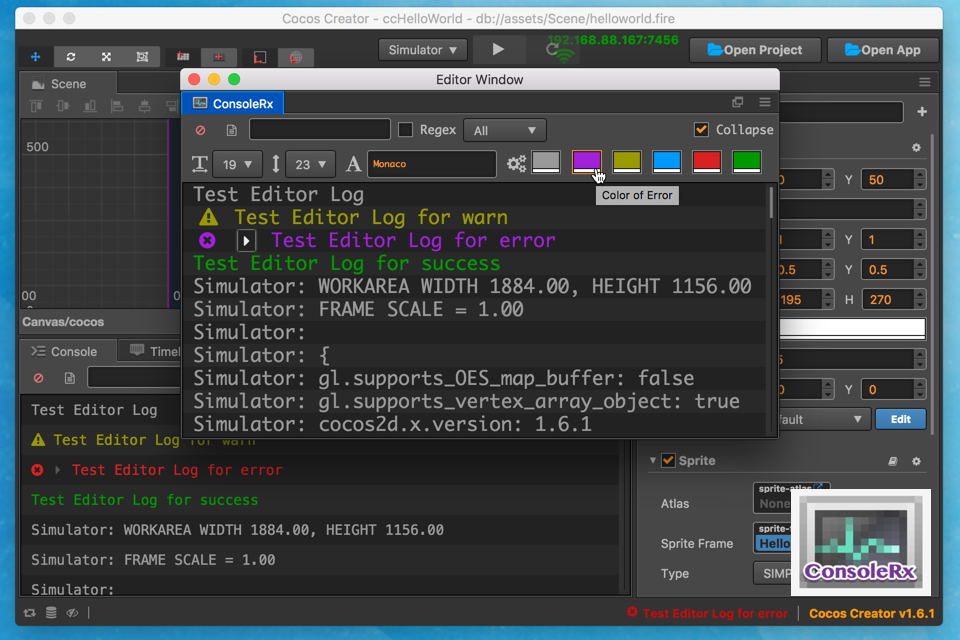
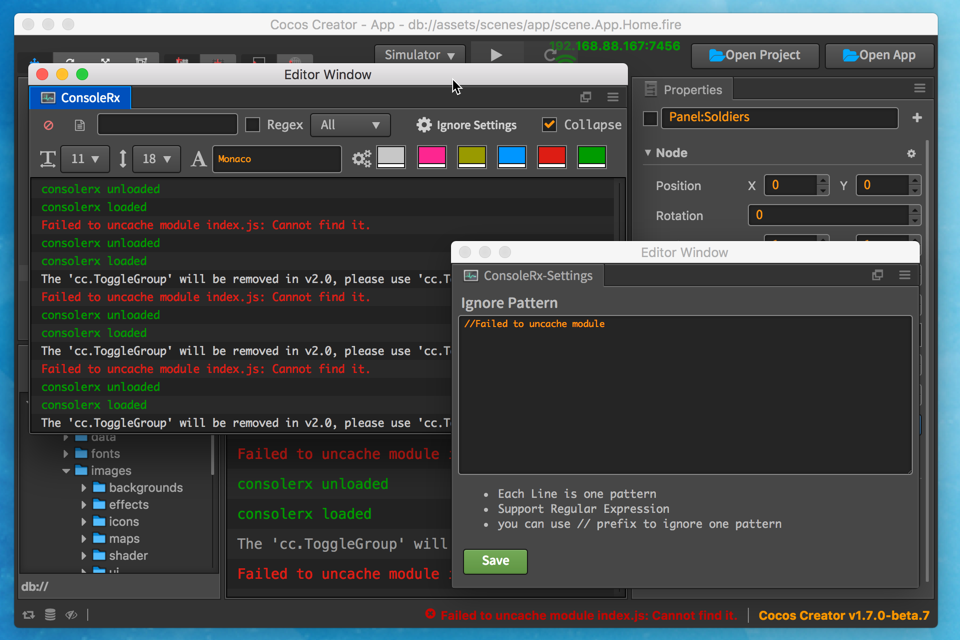
upgrade ConsoleRx 1.2.0
- create new panel for ignore patterns
- use Editor.Ipc.sendToPanel to sync profile settings

diff --git a/EditorExtensions/ConsoleRx/package/panel-settings/index.js b/EditorExtensions/ConsoleRx/package/panel-settings/index.js
@@ -1,0 +1,124 @@
+'use strict';
+const urlOfIcon = Editor.url( 'packages://consolerx/icon.png' );
+
+
+const stylesheet = `
+@import url('app://bower_components/fontawesome/css/font-awesome.min.css');
+#settings { display: flex; flex-direction: column; font-family: Monaco, monospace; padding:5px; }
+header { display: flex; padding: 4px; position: relative; }
+h3 { margin: 3px; }
+ui-checkbox { padding: 3px 4px; }
+
+li { font-size: 11px; }
+
+label { line-height:23px; font-size:9px; font-family:Monaco; }
+#crx_FontFamilies input { font-size:9px!important; font-family:Monaco; }
+#consolerx .split { height:20px; margin:2px 0 0 5px; border-right:#999 1px dotted; width:5px; }
+#consolerx input { color: #fd942b; background: #09f; font-size:9px; font-family:Monaco; margin: 0; padding: .2em .6em; display: inline-block; outline: 0; border-radius: 3px; border: 1px solid #888; box-shadow: inset 0 0 3px 1px rgba(0, 0, 0, .3); background: #252525 }
+#consolerx input:focus { border: 1px solid #fd942b!important; }
+#consolerx input:hover { border: 1px solid #bababa; }
+#consolerx input:-webkit-input-placeholder { font-style: italic; color: #595959 }
+#consolerx .fa { font-size:18px; line-height:28px; margin:0px 5px 0px 6px; }
+#consolerx select { padding:2px 18px 2px 5px!important; border:red 2px solid; }
+
+/* Change for UI Kit */
+ui-color { width:30px; }
+
+#settings textarea { color: #fd942b; background: #09f; font-size:9px; font-family:Monaco; margin: 0; padding: .2em .6em; display: inline-block; outline: 0; border-radius: 3px; border: 1px solid #888; box-shadow: inset 0 0 3px 1px rgba(0, 0, 0, .3); background: #252525 }
+#settings textarea:focus { border: 1px solid #fd942b!important; }
+#settings textarea:hover { border: 1px solid #bababa; }
+#settings textarea:-webkit-input-placeholder { font-style: italic; color: #595959 }
+`;
+
+const uiTemplate =`
+<div id="settings">
+
+	<div class="group">
+		<h3>Ignore Pattern</h3>
+		<textarea id="textarea" style="width:100%;height:160px"></textarea>
+	</div>
+	<div>
+		<ul>
+			<li>Each Line is one pattern</li>
+			<li>Support Regular Expression</li>
+			<li>you can use // prefix to ignore one pattern</li>
+		</ul>
+	</div>
+	<div style="padding:5px;">
+		<ui-button class="green" v-on:click="onIgnorePatternsChanged">Save</ui-button>
+	</div>
+	
+</div>
+`;
+
+let _data =
+{
+};
+
+
+let _buildMethods = ( runtime ) =>
+{
+	let funcs =
+	{
+		onIgnorePatternsChanged( event )
+		{
+			//let patterns = event.target.value
+			let patterns = runtime.$textarea.value;
+			Editor.Ipc.sendToPanel( 'consolerx', 'update-ignore-patterns', patterns );
+		},
+	};
+	return funcs;
+}
+
+
+
+
+const _DefineOfPanel =
+{
+	style: stylesheet,
+	template: uiTemplate,
+
+	$:{
+		settings: '#settings',
+		textarea: '#textarea',
+	},
+
+	listeners:
+	{
+		//'panel-resize'(){ manager.update(); },
+		//'panel-show'()	{ manager.update(); }
+	},
+	messages:
+	{
+	},
+	run( args )
+	{
+	},
+	ready()
+	{
+		let root = this;
+		let _Vue =
+		{
+			el:         this.$settings,
+			components:
+			{
+			},
+			data: _data,
+			methods: _buildMethods( root ),
+		};
+		Editor.Ipc.sendToPanel( 'consolerx', 'query-ip', null, function( ignorePatterns )
+		{
+			root.$textarea.value = ignorePatterns;
+
+			root._vm = new Vue( _Vue );
+		});
+	},
+	close()
+	{
+	}
+
+};
+
+
+
+Editor.Panel.extend( _DefineOfPanel );

diff --git a/EditorExtensions/ConsoleRx/package/panel/index.js b/EditorExtensions/ConsoleRx/package/panel/index.js
@@ -1,13 +1,13 @@
 'use strict';
 const crx = require( Editor.url( 'packages://consolerx/crx' ) );
-const manager = require( Editor.url( 'packages://consolerx/panel/manager' ) );
+const manager = require( Editor.url( 'packages://consolerx/core/manager' ) );
 const components =
 {
 	List:			require( Editor.url( 'packages://consolerx/panel/components/list' ) ),
 	Item:			require( Editor.url( 'packages://consolerx/panel/components/item' ) ),
 };
 
-require( Editor.url( 'packages://consolerx/libs/string-format' ) ).extend( String.prototype );
+//require( Editor.url( 'packages://consolerx/libs/string-format' ) ).extend( String.prototype );
 
 const __defaultColors = `
 section .item[type=log]	{ color: #999; }
@@ -76,6 +76,8 @@ const uiTemplate =`
 			<option value="warn">Warn</option>
 			<option value="error">Error</option>
 		</ui-select>
+		
+		<ui-button id="openSettings" class="small transparent" v-on:click="onPopSettings" style="margin-left:10px"><i class="fa fa-cog"></i>Ignore Settings</ui-button>
 		
 		<ui-checkbox class="collapse" v-on:confirm="onCollapse" checked>Collapse</ui-checkbox>
 	</header>
@@ -175,6 +177,10 @@ let _buildMethods = ( runtime ) =>
 			let rect = runtime.$openLogBtn.getBoundingClientRect();
 			Editor.Ipc.sendToPackage( crx.PackageName, 'popup-open-log-menu', rect.left, rect.bottom + 5 );
 		},
+		onPopSettings()
+		{
+			Editor.Panel.open( 'consolerx-settings', crx.Runtime.IgnorePatterns );
+		},
 		onFilterType( event )		{ manager.setFilterType( event.target.value ); },
 		onCollapse( event )			{ manager.setCollapse( event.target.checked ); },
 		onFilterRegex( event )		{ manager.setFilterRegex( event.target.value ); },
@@ -200,13 +206,12 @@ let _buildMethods = ( runtime ) =>
 			let fonts = event.target.value
 
 			crx.Runtime.UpdateProfileBy( 'fontfamilies', fonts );
-			//manager.update();
 		},
 		onColorChanged: function ( event )
 		{
 			let picker	= event.target;
 			let hex		= crx.RgbaArrayToHexBy( picker.value );
-			console.info( 'OnUpdateColor: Id[{0}] Rgba[{1}]'.format( picker.id, hex ) );
+			console.info( `OnUpdateColor: Id[${ picker.id }] Rgba[${ hex }]` );
 
 			this.colors[picker.id] = hex;
 			crx.Runtime.UpdateProfileBy( 'colors', this.colors );
@@ -275,7 +280,23 @@ const _DefineOfPanel =
 			}
 
 			event.reply( null, undefined );
-		}
+		},
+		'update-ignore-patterns'( event, patterns )
+		{
+			//Editor.log( `[Panel] Received Update Ignore: ${ patterns }` );
+
+			crx.Runtime.UpdateProfileBy( 'IgnorePatterns', patterns );
+			manager.setIgnorePatternsBy( patterns );
+			//Editor.log( `update IgnorePatterns: ${ patterns }` );
+		},
+
+		'query-ip'( event )
+		{
+			if( event.reply )
+			{
+				event.reply( crx.Runtime.IgnorePatterns );
+			}
+		},
 	},
 	ready()
 	{
@@ -295,7 +316,7 @@ const _DefineOfPanel =
 
 		this._vm = new Vue( buildVue );
 
-
+		manager.setIgnorePatternsBy( crx.Runtime.IgnorePatterns );
 		manager.SetRenderItemsBy( this._vm.messages );
 
 		Editor.Ipc.sendToMain( crx.keys.editor.ConsoleQuery, ( err, results ) =>{ manager.addItems( results ); } );

diff --git a/EditorExtensions/ConsoleRx/package/core/manager.js b/EditorExtensions/ConsoleRx/package/core/manager.js
@@ -15,6 +15,8 @@ exports.SetRenderItemsBy = function ( array )
 	__RenderItems = exports.RenderItems = array;
 };
 
+let ignorePatterns = [];
+
 var collapse = true;
 var filterType = '';
 var filterText = '';
@@ -88,7 +90,7 @@ exports.update = function ()
 			catch ( error ) { filter = /.*/; }
 		}
 
-		var filtedMessages = __messages.filter( ( item ) =>
+		var messages = __messages.filter( ( item ) =>
 		{
 			// 过滤一遍 title 不存在的项目
 			if ( !item.title ) return false;
@@ -104,10 +106,20 @@ exports.update = function ()
 			}
 		} );
 
+		//IgnorePatterns
+		for( let idx = 0; idx < ignorePatterns.length; idx++ )
+		{
+			let ignoreRegExp = ignorePatterns[idx];
 
+			messages = messages.filter( (item) =>
+			{
+				return !ignoreRegExp.test( item.title );
+			});
+
+		}
 
 		// 最后将过滤出来的 log 信息放入需要显示的 RenderItems 队列
-		filtedMessages.forEach( ( item ) =>
+		messages.forEach( ( item ) =>
 		{
 			var reference = __RenderItems[__RenderItems.length - 1];
 			// 根据 collapse 过滤一遍
@@ -154,5 +166,30 @@ exports.setFilterText = function ( str )
 exports.setFilterRegex = function ( bool )
 {
 	filterRegex = !!bool;
+	exports.update();
+};
+
+exports.setIgnorePatternsBy = function( patterns )
+{
+	let regexps = [];
+	let strings = patterns.split( "\n" );
+
+	for( let idx = 0; idx < strings.length; idx++ )
+	{
+		let string = strings[idx];
+		if( !string || !string.length || string.startsWith( '//' ) ) continue;
+		try
+		{
+			let regexp = new RegExp( string );
+			regexps.push( regexp );
+		}
+		catch ( error )
+		{
+			console.error( `[Error] 字串(${ idx })[${ string }]不是有效的RegularExpress!` );
+		}
+	}
+
+	ignorePatterns = regexps;
+
 	exports.update();
 };

diff --git a/EditorExtensions/ConsoleRx/package/crx.js b/EditorExtensions/ConsoleRx/package/crx.js
@@ -13,8 +13,9 @@ let crx =
 		},
 		cmds:
 		{
-			Clear:				'consolerx:clear',
-			QueryLastErrorLog:	'consolerx:query-last-error-log',
+			Clear:					'consolerx:clear',
+			QueryLastErrorLog:		'consolerx:query-last-error-log',
+			UpdateIgnorePatterns:	'consolerx:update-ignore-patterns',
 		},
 		editor:
 		{
@@ -38,7 +39,8 @@ let crx =
 			info:	"#0099FF",
 			failed:	"#DA2121",
 			success:"#009900"
-		}
+		},
+		IgnorePatterns:	'',
 	}
 };
 
@@ -48,8 +50,9 @@ let crx =
 //================================================================================================================
 crx.Runtime =
 {
-	Profile:	null,
-	LineHeight:	crx.DefaultProfiles.lineheight,
+	Profile:		null,
+	LineHeight:		crx.DefaultProfiles.lineheight,
+	IgnorePatterns:	crx.DefaultProfiles.IgnorePatterns,
 };
 
 crx.Runtime.UpdateProfileBy = function( key, value )
@@ -157,8 +160,8 @@ crx.InitializeProfileBy = function( profile, data )
 	data.fontfamilies	= crx.GetValidStringBy( profile, 'fontfamilies',crx.DefaultProfiles.fontfamilies );
 	data.colors			= crx.GetValidColorsBy( profile );
 
-
-	Editor.crx.Runtime.LineHeight = data.lineheight;
+	crx.Runtime.LineHeight = data.lineheight;
+	crx.Runtime.IgnorePatterns = crx.GetValidStringBy( profile, 'IgnorePatterns',crx.DefaultProfiles.IgnorePatterns );
 };
 
 

diff --git a/EditorExtensions/ConsoleRx/package/index.js b/EditorExtensions/ConsoleRx/package/index.js
@@ -71,30 +71,4 @@ index.messages[ crx.keys.msgs.PopupItemMenu ] = ( event, x, y, text ) =>
 };
 
 
-// index.messages[ 'import-asset' ] =  ( event, path ) =>
-// {
-// 	Editor.log( '[ConsoleRx] Start Import assets...' )
-// 	// Editor.assetdb.refresh( path, ( err, results ) =>
-// 	// {
-// 	// 	if ( err ) { Editor.assetdb.error( '[langs] Failed to reimport asset %s, %s', path, err.stack ); return; }
-// 	// 	Editor.assetdb._handleRefreshResults( results );
-// 	//
-// 	// 	let metaPath = path + '.meta';
-// 	// 	if ( Fs.existsSync( Editor.url( metaPath ) ) )
-// 	// 	{
-// 	// 		let meta = Fs.readJsonSync( Editor.url( metaPath ) );
-// 	// 		meta.isPlugin = true;
-// 	// 		Fs.outputJsonSync( Editor.url( metaPath ), meta );
-// 	// 		Editor.log( '[langs.IDE] Import Asset success: ' + metaPath )
-// 	// 	}
-// 	// 	else
-// 	// 	{
-// 	// 		Editor.log( '[langs] Failed to set language data file to plugin script' );
-// 	// 		return;
-// 	// 	}
-// 	// } );
-// };
-
-
-
 module.exports = index;

diff --git a/EditorExtensions/ConsoleRx/readme.md b/EditorExtensions/ConsoleRx/readme.md
@@ -9,6 +9,9 @@ so i made this Extension for CocosCreator, hope you enjoy the developing :)
 
 **Feature & change log**
 ------------------------------------
+- 1.2.0
+  - add Feature for ignore pattern settings
+
 - 1.1.2
   - fix when Panel dock to MainFrame the messages duplicate issue
   - fix folding arrow size issue
